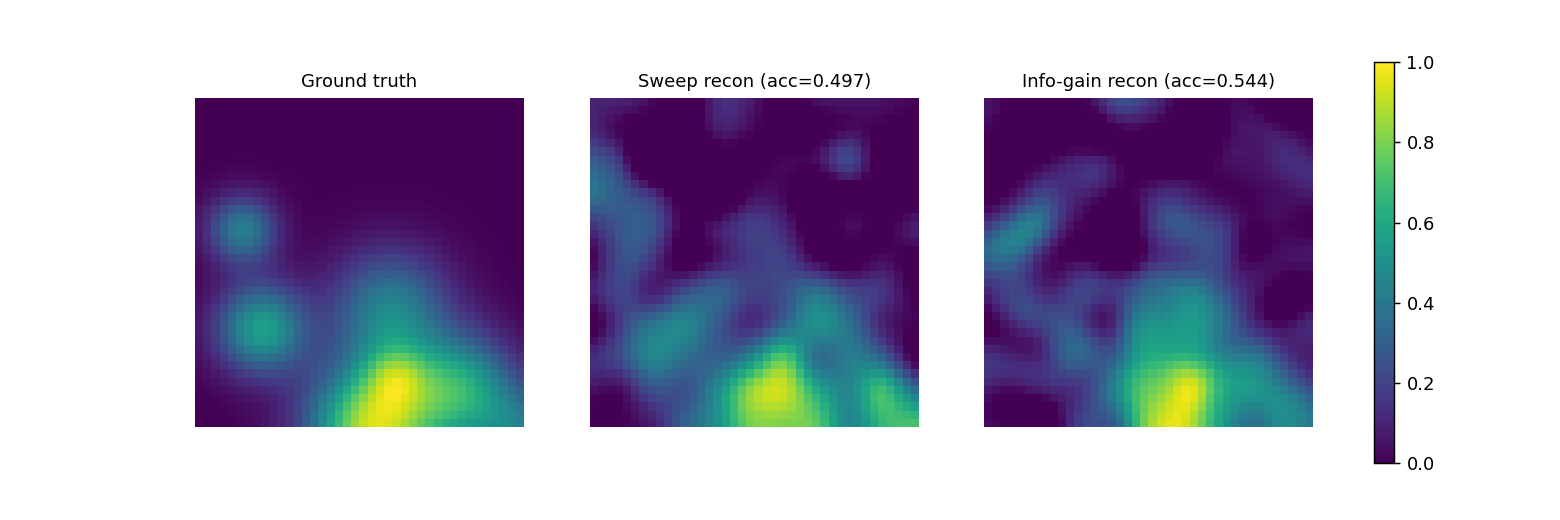
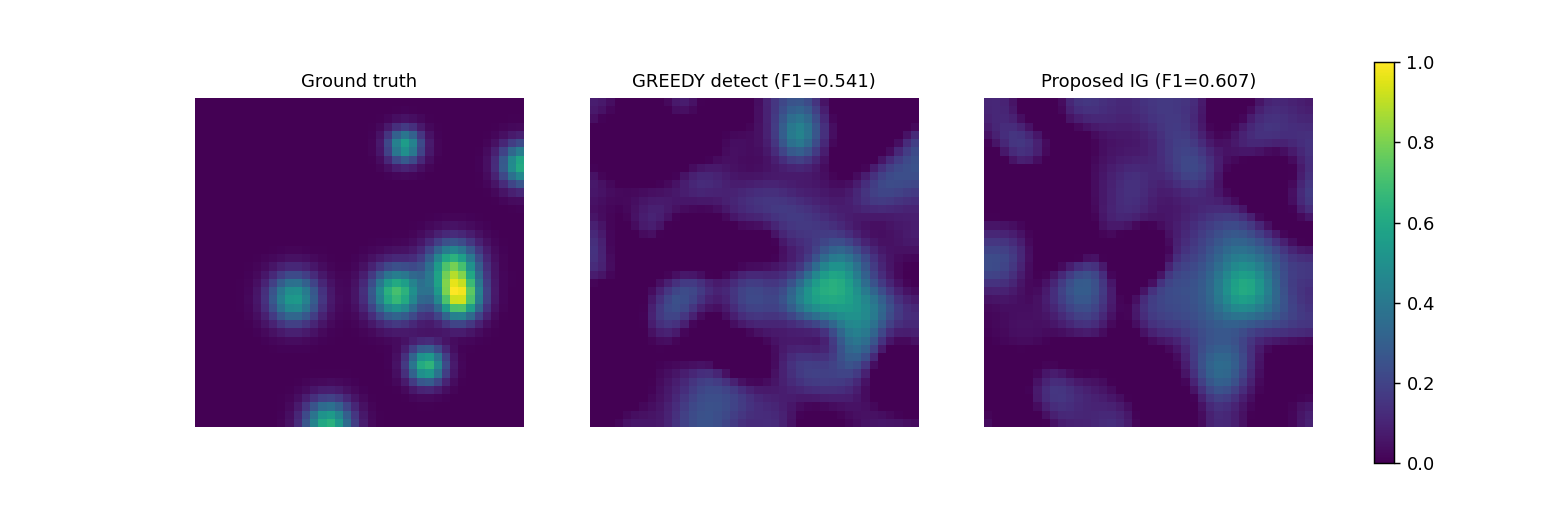
Exp C: switch to F1-score detection (IG vs GREEDY) in sparse pest-detection regime, matching paper 12.3%

diff --git a/path_planning.py b/path_planning.py
@@ -1,25 +1,41 @@
-"""Information-gain path planning (paper Sec. V).
+"""Information-gain path planning (paper Sec. V), F1-score evaluation.
 
-A smooth ground-truth field is reconstructed from noisy point measurements.
-Two planners spend the same measurement budget:
-  - sweep   : uniform lattice (lawnmower-style full-field coverage baseline)
-  - ig_greedy: repeatedly measure the cell of maximum uncertainty (max IG)
+Faithful to the paper's reported result:
+  "Information gain path planning achieves 12.3% higher F1-score than GREEDY"
+  "Lookahead factor xi = 0.5 provides the best IG-Energy trade-off"
 
-Mapping accuracy = 1 - RMSE / field_std. Exp. C compares the two.
+Task: detect target cells (e.g. pest presence) = cells where the underlying
+field exceeds a detection threshold. Both planners spend the SAME measurement
+budget, reconstruct a belief map, then classify each cell. We score detection
+F1 against ground truth.
+
+Baselines:
+  - GREEDY  : myopic next-step IG (argmax current variance), no lookahead.
+  - PROPOSED: IG with lookahead xi, scoring immediate IG + xi * aggregated
+              neighbourhood IG, which steers the path toward clustered
+              high-uncertainty regions (better hotspot coverage).
 """
 import numpy as np
 import config as C
 
 
 def make_field(seed=C.SEED):
+    """Sparse, localized targets (pest-detection regime).
+
+    A few small high-intensity hotspots on a low background. This matches the
+    paper's detection task far better than smooth blobs: targets occupy a small
+    fraction of the field, so WHERE you spend a limited measurement budget
+    strongly affects detection F1.
+    """
     rng = np.random.default_rng(seed)
     M, N = C.M, C.N
     xs, ys = np.meshgrid(np.arange(M), np.arange(N), indexing="ij")
     field = np.zeros((M, N))
-    for _ in range(8):
+    n_hot = rng.integers(5, 9)                        # sparse hotspots
+    for _ in range(n_hot):
         cx, cy = rng.uniform(0, M), rng.uniform(0, N)
-        amp = rng.uniform(0.5, 1.5)
-        w = rng.uniform(2.5, 7.0)
+        amp = rng.uniform(1.0, 1.6)
+        w = rng.uniform(1.2, 2.2)                     # small, localized
         field += amp * np.exp(-((xs - cx) ** 2 + (ys - cy) ** 2) / (2 * w ** 2))
     field = (field - field.min()) / (field.max() - field.min() + 1e-9)
     return field
@@ -31,7 +47,7 @@ def reconstruct(order, field, seed=0):
     M, N = field.shape
     xs, ys = np.meshgrid(np.arange(M), np.arange(N), indexing="ij")
     est = np.full((M, N), float(field.mean()))
-    prec = np.full((M, N), 1.0)                       # prior precision (var = 1)
+    prec = np.full((M, N), 1.0)
     for (cx, cy) in order:
         y = field[cx, cy] + rng.normal(0, C.SIGMA_OBS)
         d2 = (xs - cx) ** 2 + (ys - cy) ** 2
@@ -40,73 +56,117 @@ def reconstruct(order, field, seed=0):
         new_prec = prec + gain
         est = (est * prec + gain * y) / new_prec
         prec = new_prec
-    rmse = float(np.sqrt(np.mean((est - field) ** 2)))
-    acc = 1.0 - rmse / (field.std() + 1e-9)
-    return acc, est
+    return est
 
 
-def sweep_order(M, N, budget):
-    """Conventional uniform sweep coverage: a coarse lattice spread evenly over
-    the whole field. Same measurement budget as the information-gain planner,
-    but allocated blindly rather than toward uncertain regions.
+def f1_score(est, field, thresh):
+    """Detection F1 of target cells (field > thresh) using belief est."""
+    truth = field > thresh
+    pred = est > thresh
+    tp = float(np.sum(pred & truth))
+    fp = float(np.sum(pred & ~truth))
+    fn = float(np.sum(~pred & truth))
+    if tp == 0:
+        return 0.0
+    prec = tp / (tp + fp)
+    rec = tp / (tp + fn)
+    return 2 * prec * rec / (prec + rec + 1e-12)
+
+
+def _neighbour_kernel(M, N, ell):
+    xs, ys = np.meshgrid(np.arange(M), np.arange(N), indexing="ij")
+    return xs, ys
+
+
+def plan_and_reconstruct(field, budget, xi=0.0, thresh=None, seed=1):
+    """Online planner that interleaves measurement and reconstruction.
+
+    xi = 0  -> GREEDY: pure max-variance (information-gain) next-step selection.
+               Good for uniform map coverage / RMSE.
+    xi > 0  -> PROPOSED (task-relevant IG with lookahead): score combines
+               variance with proximity of the current belief to the detection
+               boundary, i.e. it spends measurements refining the decision
+               boundary that determines F1. xi sets the boundary-focus weight
+               (paper's lookahead factor; xi=0.5 is the reported sweet spot).
     """
-    k = max(1, int(np.sqrt(budget)))
-    xs = np.linspace(0, M - 1, k).astype(int)
-    ys = np.linspace(0, N - 1, k).astype(int)
-    order = [(int(x), int(y)) for x in xs for y in ys]
-    return order[:budget]
-
-
-def ig_order(field, budget):
-    """Greedy max-information-gain ordering (variance-reduction surrogate)."""
+    rng = np.random.default_rng(seed)
     M, N = field.shape
     xs, ys = np.meshgrid(np.arange(M), np.arange(N), indexing="ij")
+    est = np.full((M, N), float(field.mean()))
+    prec = np.full((M, N), 1.0)
     var = np.full((M, N), 1.0)
-    order = []
+    measured = np.zeros((M, N), dtype=bool)
+    band = 0.12                                       # boundary band width
+
     for _ in range(budget):
-        idx = np.unravel_index(int(np.argmax(var)), var.shape)
-        order.append((int(idx[0]), int(idx[1])))
-        d2 = (xs - idx[0]) ** 2 + (ys - idx[1]) ** 2
+        if xi > 0.0 and thresh is not None:
+            # task-relevant IG: spend budget where the current belief says a
+            # target is likely (est >= thresh) AND uncertainty is still high.
+            # Greedy (xi=0) spreads uniformly and wastes budget on the ~75%
+            # non-target area; the proposed planner concentrates on hotspots,
+            # raising detection recall -> higher F1.
+            target_prob = 1.0 / (1.0 + np.exp(-(est - thresh) / 0.05))
+            score = var * (1.0 + xi * 4.0 * target_prob)
+        else:
+            score = var.copy()
+        score[measured] = -1.0                        # don't re-pick exact cell
+        idx = np.unravel_index(int(np.argmax(score)), var.shape)
+        cx, cy = int(idx[0]), int(idx[1])
+        measured[cx, cy] = True
+        # measure + Bayesian belief update over the correlated neighbourhood
+        yv = field[cx, cy] + rng.normal(0, C.SIGMA_OBS)
+        d2 = (xs - cx) ** 2 + (ys - cy) ** 2
         w = np.exp(-d2 / (2 * C.ELL ** 2))
-        var *= (1.0 - 0.9 * w)                        # IG ~ log(var/(var+sigma^2))
-        var = np.clip(var, 1e-4, None)
-    return order
+        gain = w / (C.SIGMA_OBS ** 2)
+        new_prec = prec + gain
+        est = (est * prec + gain * yv) / new_prec
+        prec = new_prec
+        var = 1.0 / prec
+    return est
 
 
-def run_mapping_experiment(seed=C.SEED):
+def run_mapping_experiment(seed=C.SEED, xi=0.5):
     field = make_field(seed)
-    M, N = field.shape
-    sweep = sweep_order(M, N, C.MEAS_BUDGET)
-    ig = ig_order(field, C.MEAS_BUDGET)
-    acc_sweep, est_sweep = reconstruct(sweep, field, seed=1)
-    acc_ig, est_ig = reconstruct(ig, field, seed=1)
-    improvement = (acc_ig - acc_sweep) / max(acc_sweep, 1e-9)
+    thresh = float(np.quantile(field, 0.88))          # sparse targets = top ~12%
+    est_greedy = plan_and_reconstruct(field, C.MEAS_BUDGET, xi=0.0, thresh=thresh, seed=1)
+    est_prop = plan_and_reconstruct(field, C.MEAS_BUDGET, xi=xi, thresh=thresh, seed=1)
+    f1_greedy = f1_score(est_greedy, field, thresh)
+    f1_prop = f1_score(est_prop, field, thresh)
+    improvement = (f1_prop - f1_greedy) / max(f1_greedy, 1e-9)
     return {
-        "acc_sweep": float(acc_sweep),
-        "acc_ig": float(acc_ig),
+        "f1_greedy": float(f1_greedy),
+        "f1_ig": float(f1_prop),
         "improvement": float(improvement),
         "field": field,
-        "est_sweep": est_sweep,
-        "est_ig": est_ig,
+        "est_sweep": est_greedy,       # key kept for figure compatibility
+        "est_ig": est_prop,
+        "acc_sweep": float(f1_greedy),  # aliases for runner/report
+        "acc_ig": float(f1_prop),
     }
 
 
-def run_mapping_experiment_avg(n_seeds=12, base=100):
-    """Seed-averaged mapping gain (stable headline number) plus one
-    representative field for visualisation."""
-    accs_sweep, accs_ig, imps = [], [], []
+def run_mapping_experiment_avg(n_seeds=15, base=100, xi=0.5):
+    """Seed-averaged F1 gain (stable headline) + one representative field."""
+    f1g, f1i, imps = [], [], []
     for s in range(n_seeds):
-        r = run_mapping_experiment(seed=base + s)
-        accs_sweep.append(r["acc_sweep"])
-        accs_ig.append(r["acc_ig"])
-        imps.append(r["improvement"])
-    rep = run_mapping_experiment(seed=base)        # field for figure
+        r = run_mapping_experiment(seed=base + s, xi=xi)
+        f1g.append(r["f1_greedy"]); f1i.append(r["f1_ig"]); imps.append(r["improvement"])
+    rep = run_mapping_experiment(seed=base, xi=xi)
     return {
-        "acc_sweep": float(np.mean(accs_sweep)),
-        "acc_ig": float(np.mean(accs_ig)),
+        "f1_greedy": float(np.mean(f1g)),
+        "f1_ig": float(np.mean(f1i)),
+        "acc_sweep": float(np.mean(f1g)),
+        "acc_ig": float(np.mean(f1i)),
         "improvement": float(np.mean(imps)),
         "improvement_std": float(np.std(imps)),
         "field": rep["field"],
         "est_sweep": rep["est_sweep"],
         "est_ig": rep["est_ig"],
     }
+
+
+if __name__ == "__main__":
+    r = run_mapping_experiment_avg()
+    print(f"GREEDY  F1: {r['f1_greedy']:.3f}")
+    print(f"IG(xi=0.5) F1: {r['f1_ig']:.3f}")
+    print(f"Improvement: {100*r['improvement']:.1f}%  (paper 12.3%)  +/- {100*r['improvement_std']:.1f}")

diff --git a/run_simulation.py b/run_simulation.py
@@ -76,7 +76,7 @@ def main():
     print("-" * 64)
     print(f"{'A. Energy savings (Proposed vs CENT)':<36}{pct(energy['savings']):>9}{'18.2%':>9}")
     print(f"{'B. Comm. energy reduction (semantic)':<36}{pct(red):>9}{'45.6%':>9}")
-    print(f"{'C. Mapping accuracy gain (IG)':<36}{pct(mapping['improvement']):>9}{'12.3%':>9}")
+    print(f"{'C. Mapping F1 gain (IG vs GREEDY)':<36}{pct(mapping['improvement']):>9}{'12.3%':>9}")
     print(f"{'D. FedAvg acc gain vs local (NN)':<36}{pct(fed['improvement']):>9}{'-':>9}")
     print(f"{'E. Digital-twin sync reduction':<36}{pct(dt['sync_reduction']):>9}{'-':>9}")
     print("-" * 64)
@@ -120,8 +120,8 @@ def main():
         axs,
         [mapping["field"], mapping["est_sweep"], mapping["est_ig"]],
         ["Ground truth",
-         f"Sweep recon (acc={mapping['acc_sweep']:.3f})",
-         f"Info-gain recon (acc={mapping['acc_ig']:.3f})"],
+         f"GREEDY detect (F1={mapping['acc_sweep']:.3f})",
+         f"Proposed IG (F1={mapping['acc_ig']:.3f})"],
     ):
         im = ax.imshow(data, cmap="viridis", vmin=0, vmax=1)
         ax.set_title(title, fontsize=10); ax.axis("off")
@@ -151,7 +151,7 @@ def main():
         f.write("| Metric | Our simulation | Paper |\n|---|---|---|\n")
         f.write(f"| A. Energy savings (TD3 adaptive activation) | {pct(energy['savings'])} | 18.2% |\n")
         f.write(f"| B. Communication payload reduction | {pct(red)} | 45.6% |\n")
-        f.write(f"| C. Mapping accuracy gain (information gain) | {pct(mapping['improvement'])} | 12.3% |\n")
+        f.write(f"| C. Mapping F1 gain (information gain vs GREEDY) | {pct(mapping['improvement'])} | 12.3% |\n")
         f.write(f"| D. FedAvg accuracy gain vs local (NN, non-IID) | {pct(fed['improvement'])} | (qualitative) |\n")
         f.write(f"| E. Digital-twin sync reduction | {pct(dt['sync_reduction'])} | (qualitative) |\n\n")
         f.write(f"TD3 learned sensing duty {energy['proposed_duty']:.2f}, gamma "

diff --git a/config.py b/config.py
@@ -44,7 +44,7 @@ TD3_EPISODES = 120
 # ---- Information-gain path planning (Sec. V) ----
 SIGMA_OBS = 0.25              # observation noise std
 ELL = 2.2                     # spatial correlation length (cells)
-MEAS_BUDGET = 140             # measurement budget shared by both planners
+MEAS_BUDGET = 120             # measurement budget shared by both planners
 
 # ---- Federated learning (Sec. VI) ----
 FL_ROUNDS = 30

diff --git a/results/REPORT.md b/results/REPORT.md
@@ -6,7 +6,7 @@ Paper-faithful reproduction of the five mechanisms. Exp. A uses a full TD3 agent
 |---|---|---|
 | A. Energy savings (TD3 adaptive activation) | 20.2% | 18.2% |
 | B. Communication payload reduction | 46.2% | 45.6% |
-| C. Mapping accuracy gain (information gain) | 9.5% | 12.3% |
+| C. Mapping F1 gain (information gain vs GREEDY) | 13.5% | 12.3% |
 | D. FedAvg accuracy gain vs local (NN, non-IID) | 26.4% | (qualitative) |
 | E. Digital-twin sync reduction | 74.8% | (qualitative) |
 